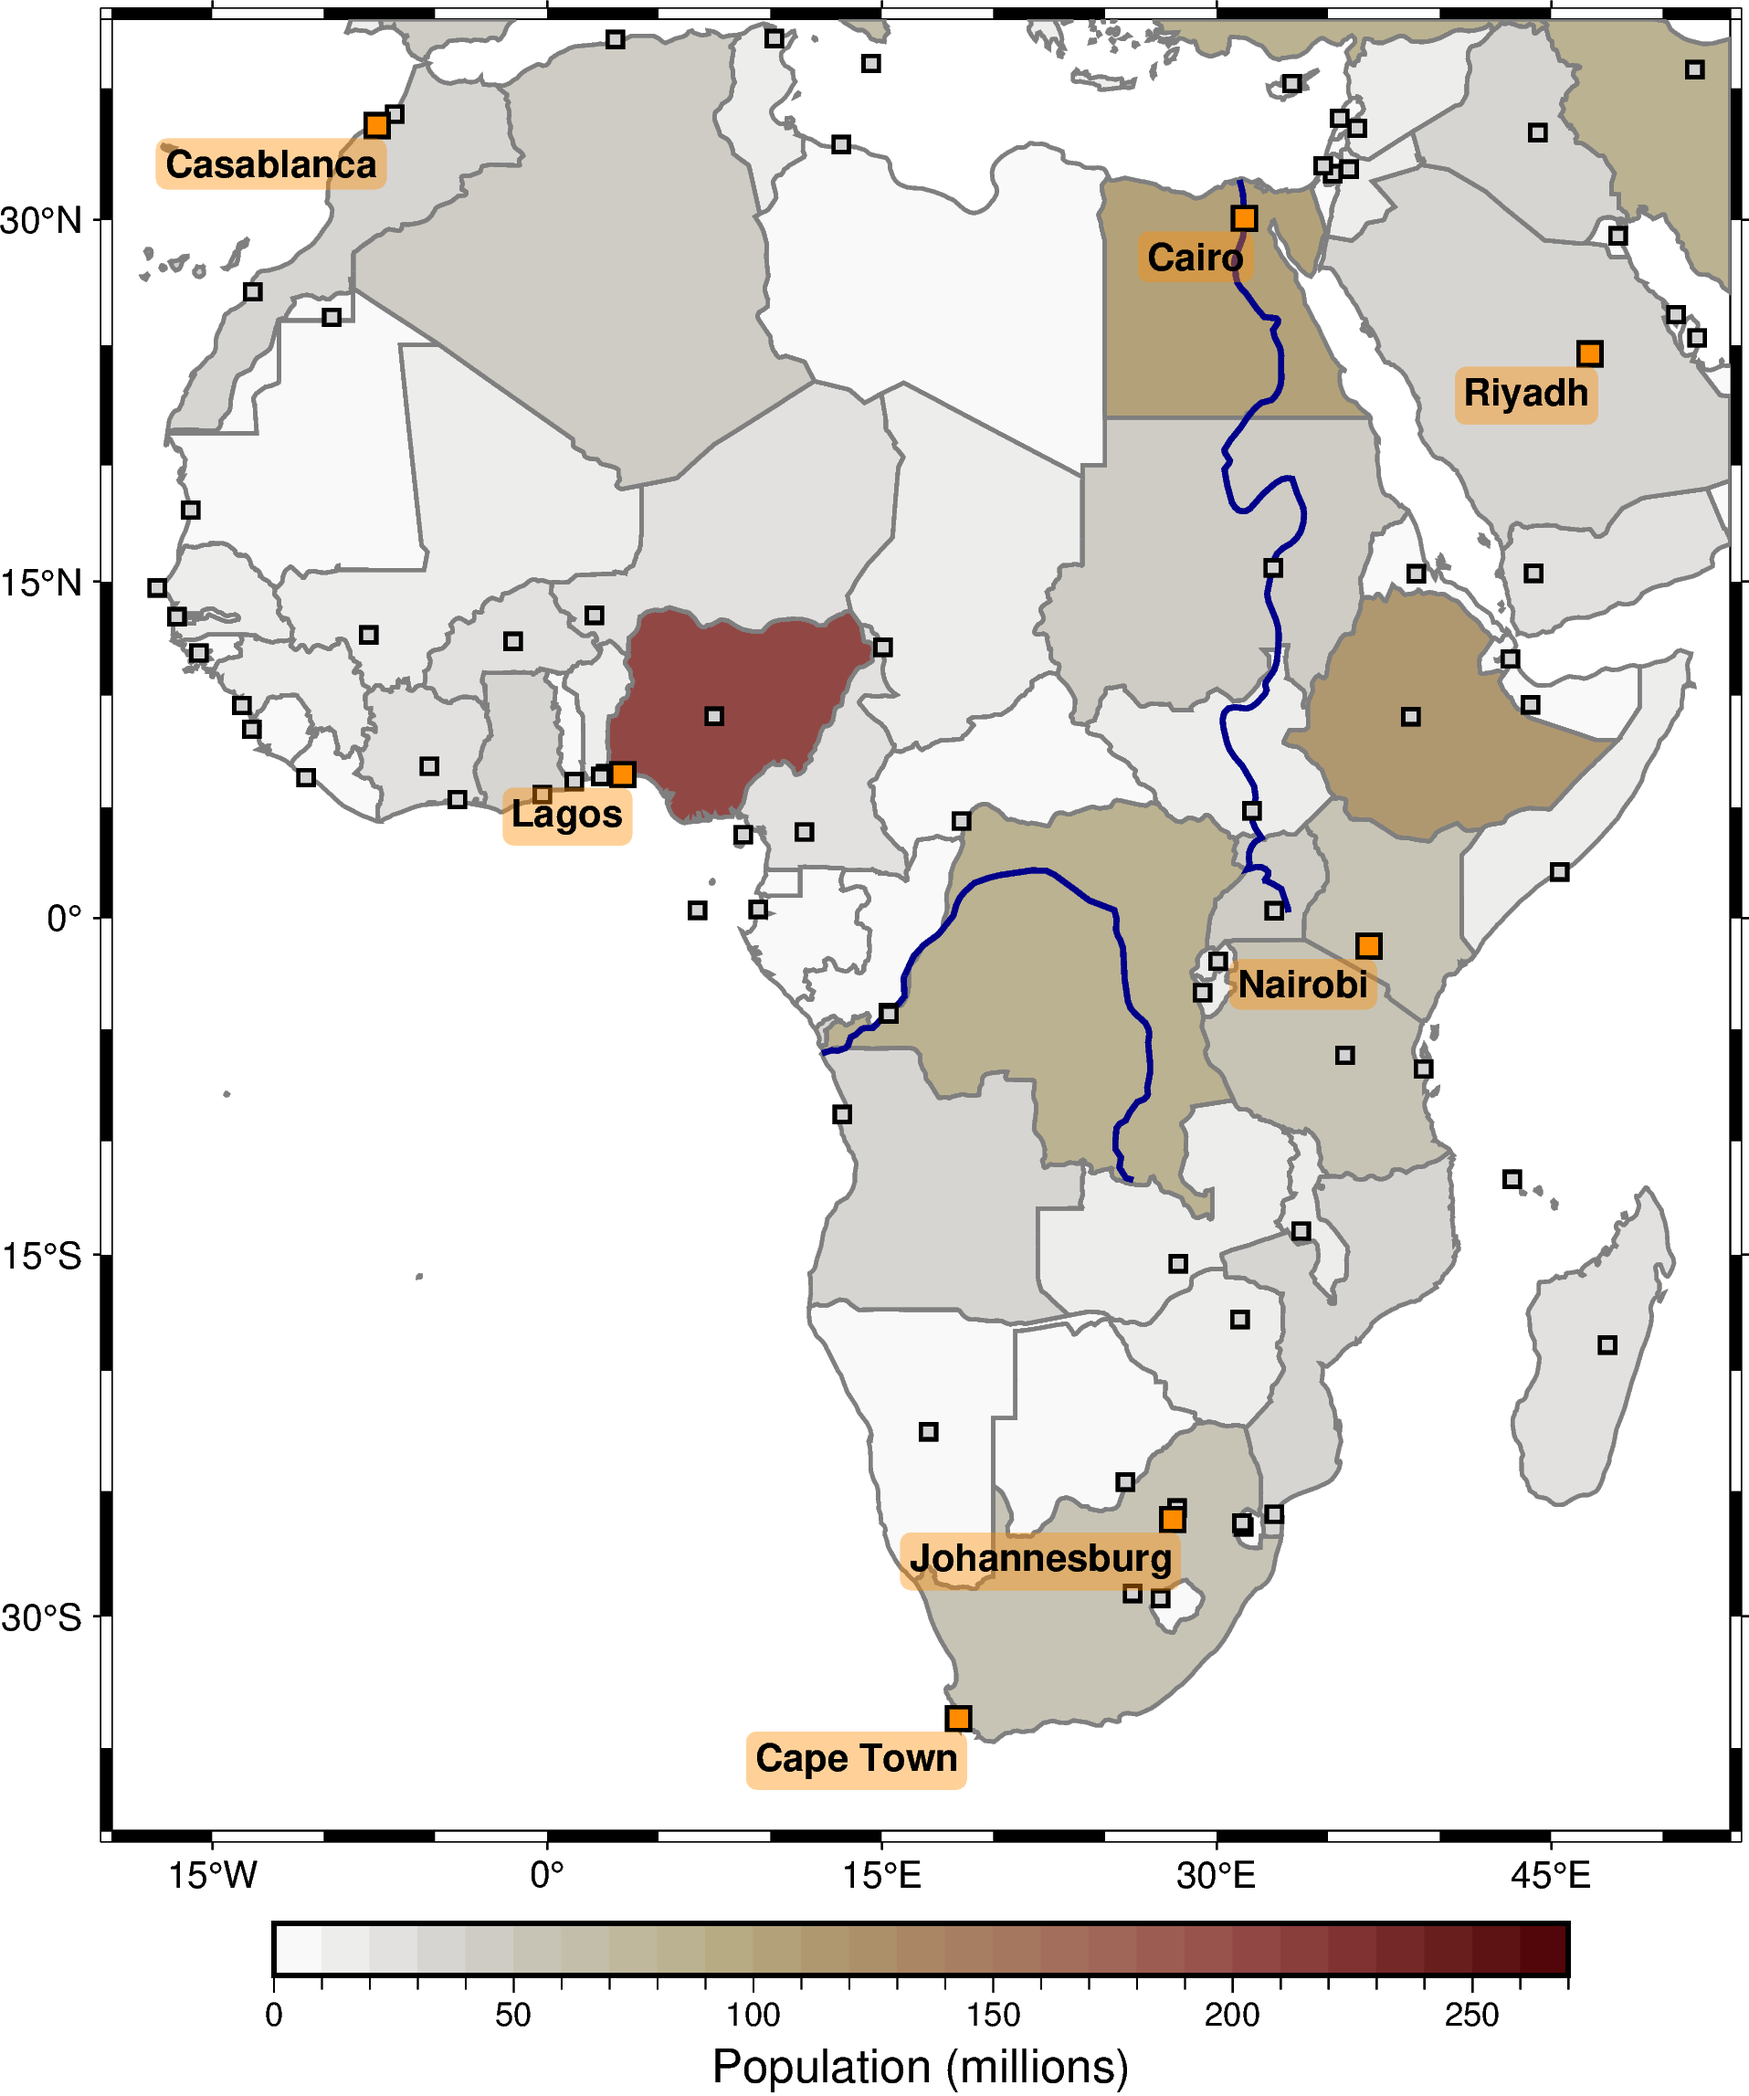
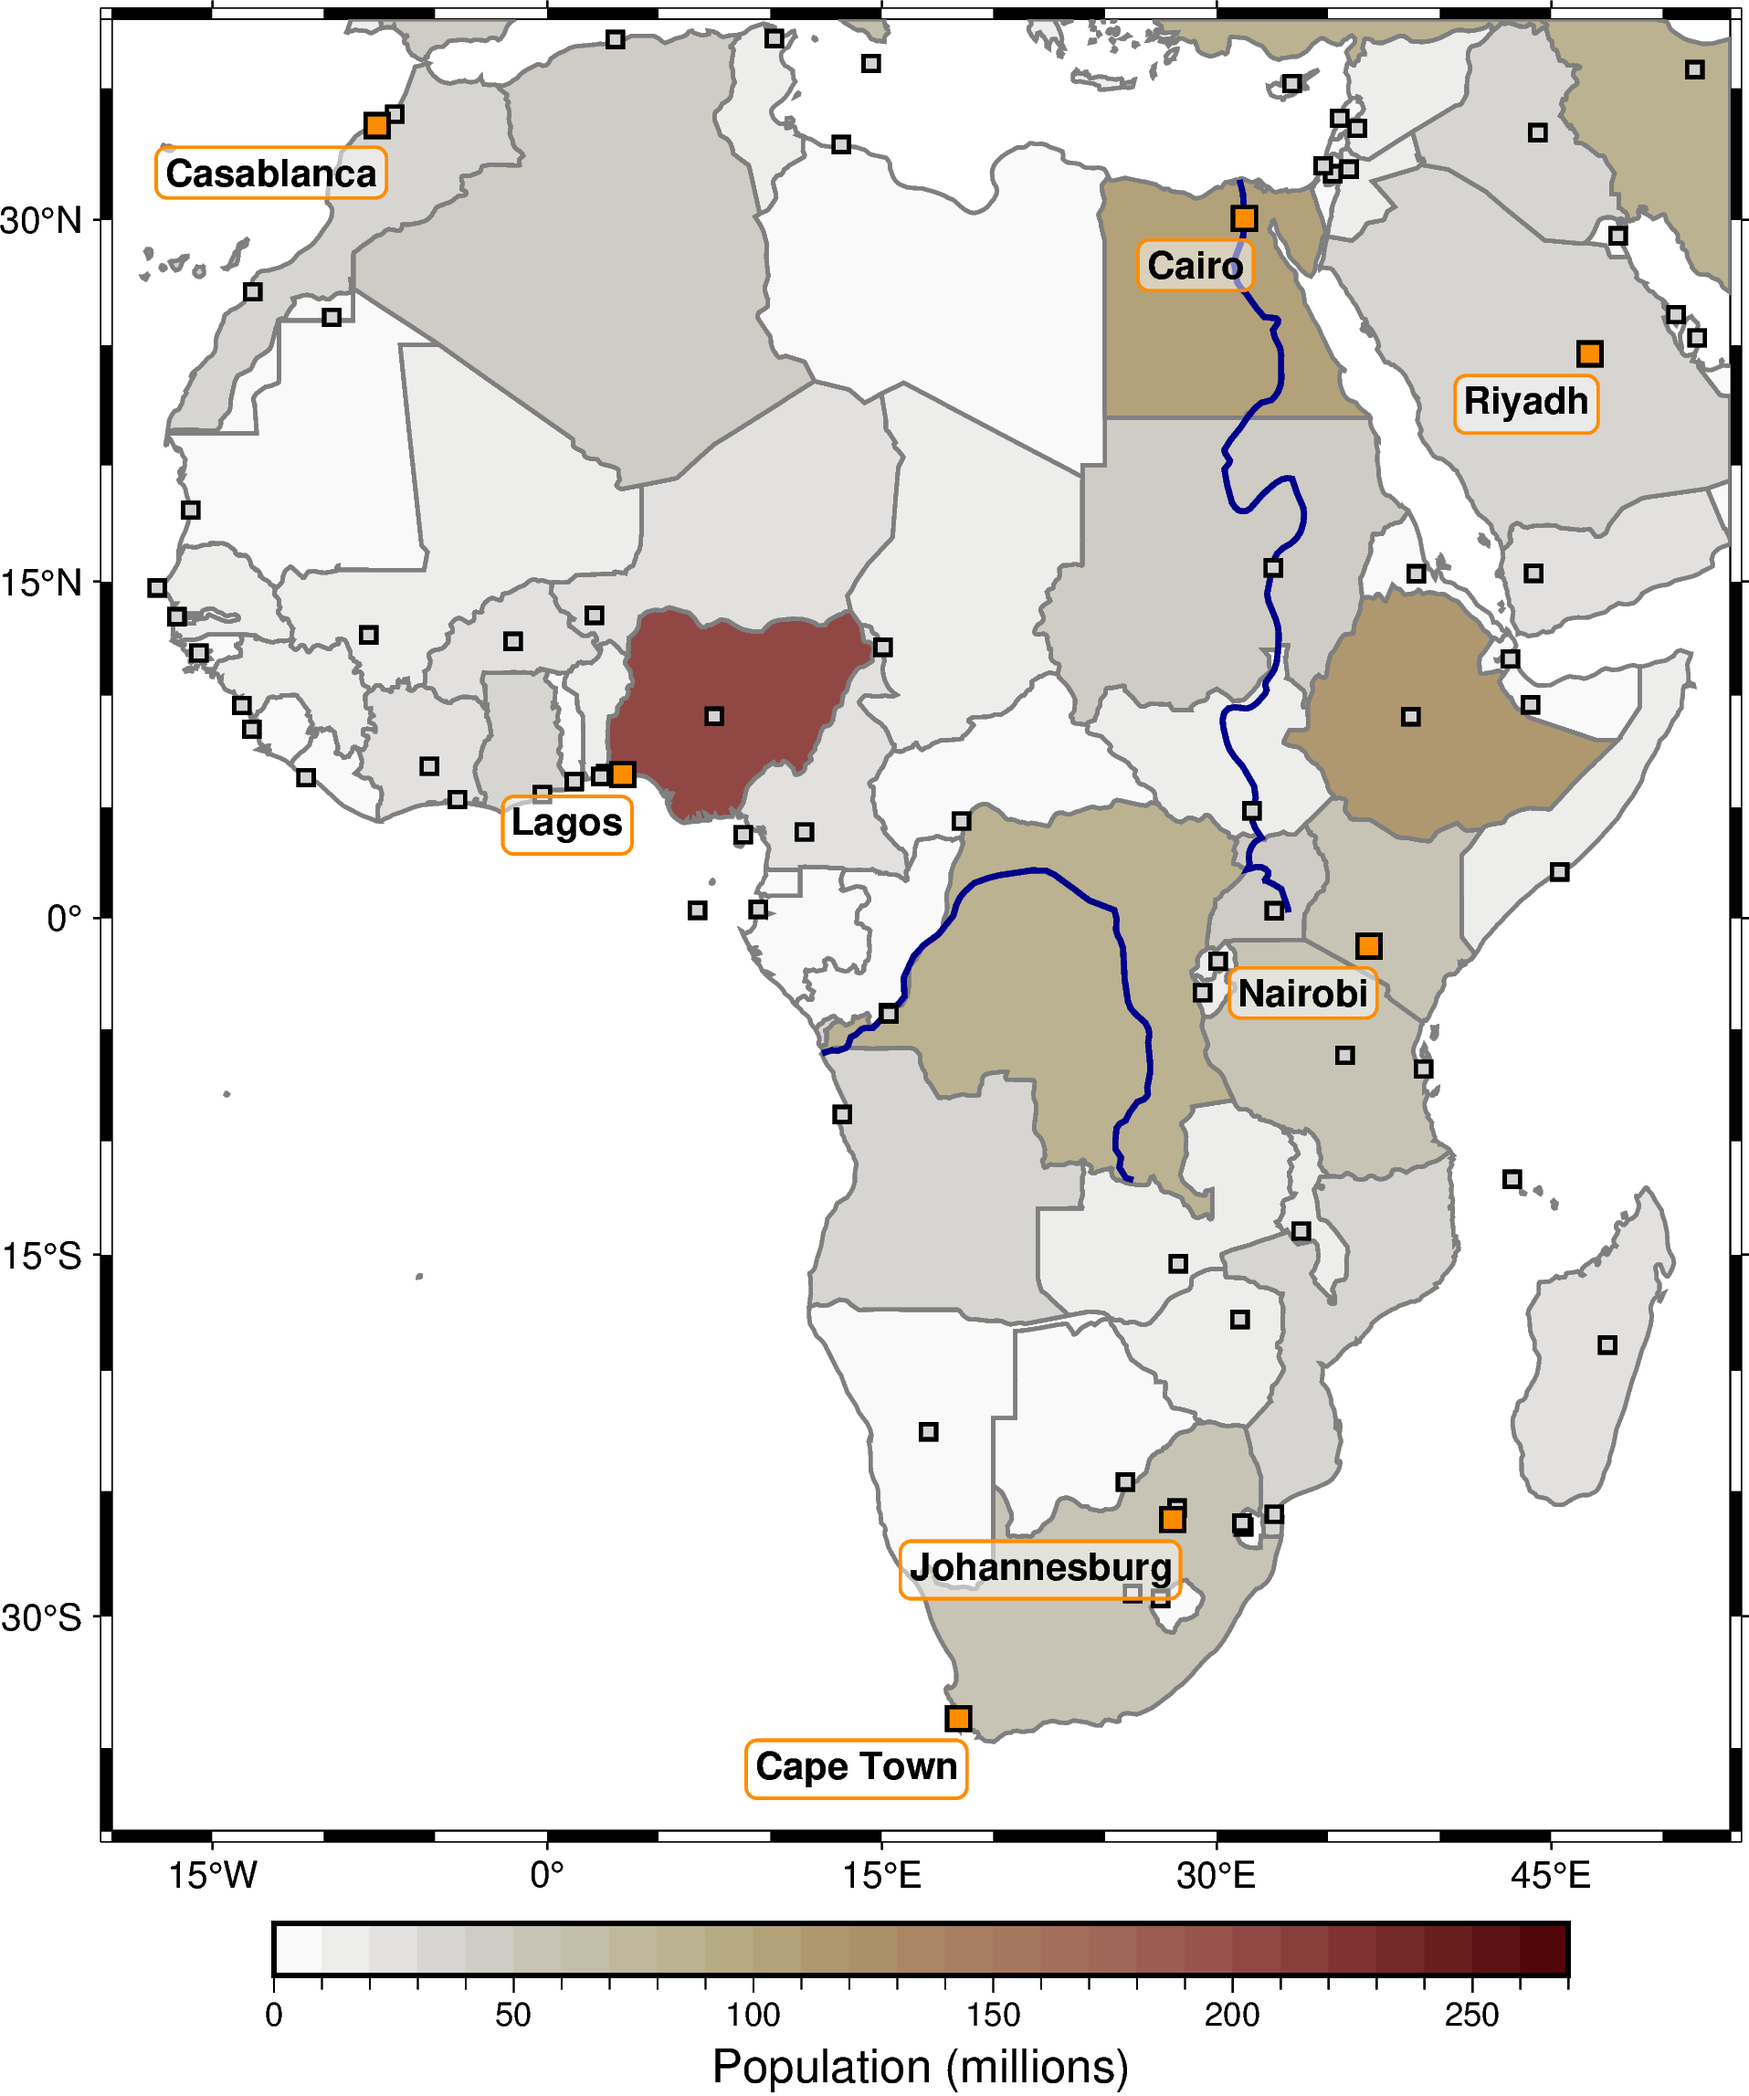
Adjust fill, outline and offset of text labels

diff --git a/Fig6_PyGMT_geopandas.py b/Fig6_PyGMT_geopandas.py
@@ -27,10 +27,11 @@ fig.text(
     x=cities_world.geometry.x,
     y=cities_world.geometry.y,
     text=cities_world["name"],
-    offset="0c/-0.22c",
+    offset="0c/-0.3c",
     justify="TR",
     font="10p,Helvetica-Bold",
-    fill="darkorange@60",
+    fill="white@50",
+    pen="0.8p,darkorange",
     clearance="0.1c+tO",
 )
 fig.show()
